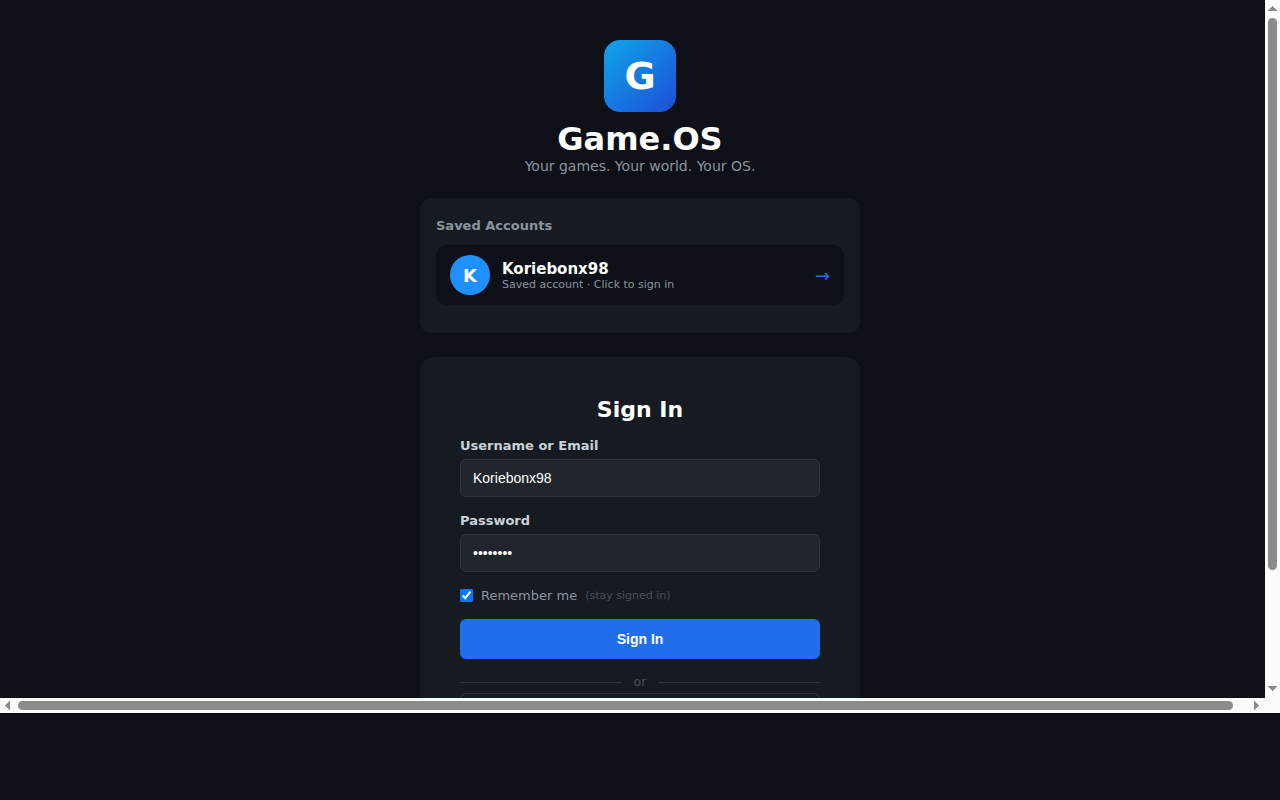
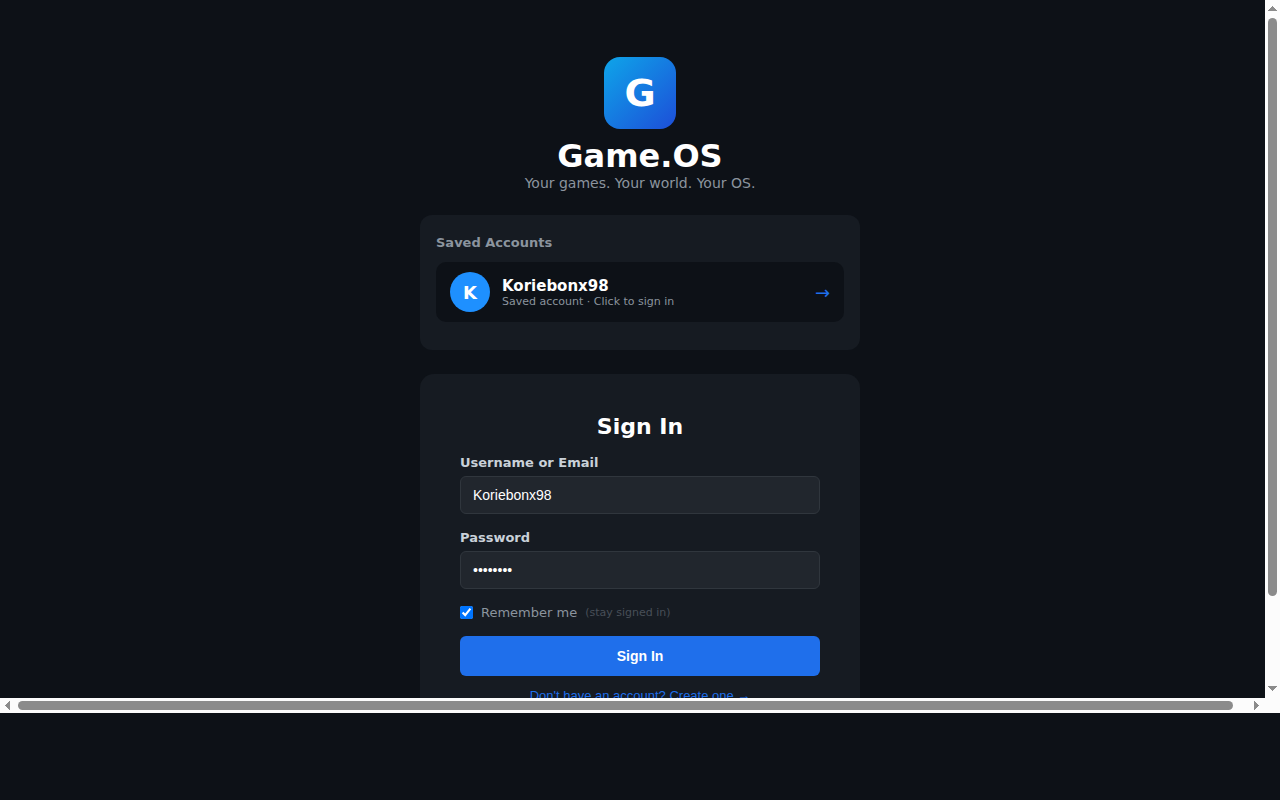
Add updated screenshots showing launcher UI with real-account auth (no demo mode)
- Update screen_login.html: remove Demo Mode button/divider to match live app
- Regenerate all 13 PNG screenshots at 1280x800 using headless Chromium
- Add screenshot_launcher_real.png: actual Avalonia C# app on Xvfb (live login screen)
- Login screen: shows Koriebonx98 saved account, Sign In form, no demo button
- Dashboard: Good evening Koriebonx98! — 3 games, 35 achievements, 3 platforms
- Store: real PS4/Switch game catalogue matching the website

diff --git a/Design/Screenshots/screen_login.html b/Design/Screenshots/screen_login.html
@@ -21,10 +21,6 @@ body { font-family:'Inter','Segoe UI',system-ui,sans-serif; background:#0d1117; 
 .form-input { background:#21262d; color:#fff; border:1px solid #30363d; border-radius:6px; padding:10px 12px; font-size:14px; width:100%; margin-bottom:16px; }
 .remember { display:flex; align-items:center; gap:8px; font-size:13px; color:#8b949e; margin-bottom:16px; }
 .btn-primary { background:#1f6feb; color:#fff; border:none; border-radius:6px; padding:12px; font-weight:600; font-size:14px; width:100%; cursor:pointer; margin-bottom:12px; }
-.divider { display:flex; align-items:center; gap:12px; margin:4px 0; }
-.divider-line { flex:1; height:1px; background:#30363d; }
-.divider-text { font-size:12px; color:#484f58; }
-.btn-demo { background:#161b22; color:#8b949e; border:1px solid #30363d; border-radius:6px; padding:10px; font-size:13px; width:100%; cursor:pointer; margin-bottom:12px; display:flex; align-items:center; justify-content:center; gap:8px; }
 .btn-link { background:transparent; border:none; color:#1f6feb; font-size:13px; cursor:pointer; display:block; margin:0 auto; }
 </style>
 </head>
@@ -56,8 +52,6 @@ body { font-family:'Inter','Segoe UI',system-ui,sans-serif; background:#0d1117; 
     <input class="form-input" type="password" value="password" readonly/>
     <div class="remember"><input type="checkbox" checked/> Remember me <span style="font-size:11px;color:#484f58;">(stay signed in)</span></div>
     <button class="btn-primary">Sign In</button>
-    <div class="divider"><div class="divider-line"></div><div class="divider-text">or</div><div class="divider-line"></div></div>
-    <button class="btn-demo"><span>🚀</span> Try Demo Mode (no account needed)</button>
     <button class="btn-link">Don't have an account? Create one →</button>
   </div>
 </div>
